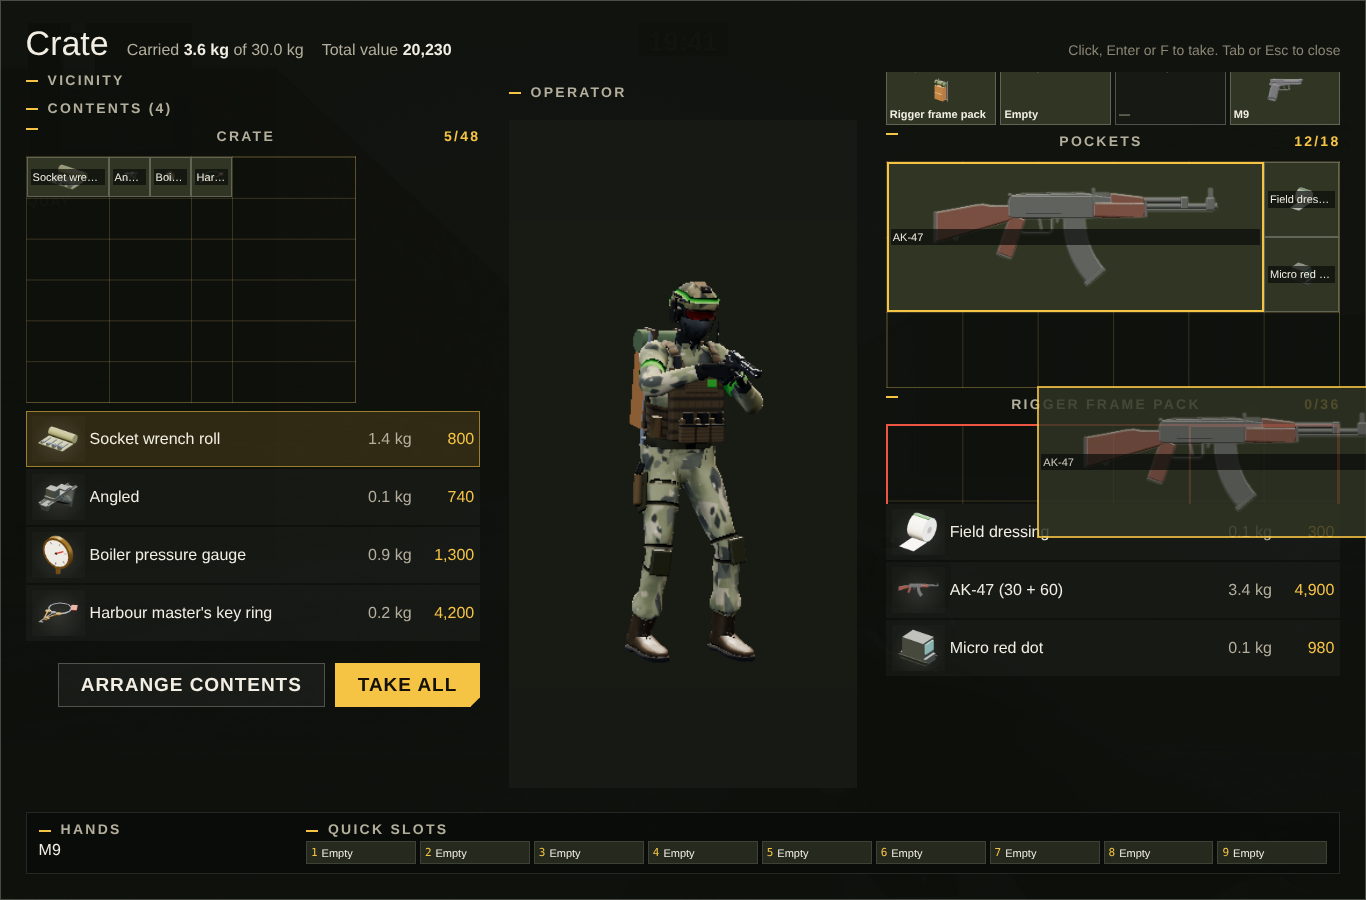
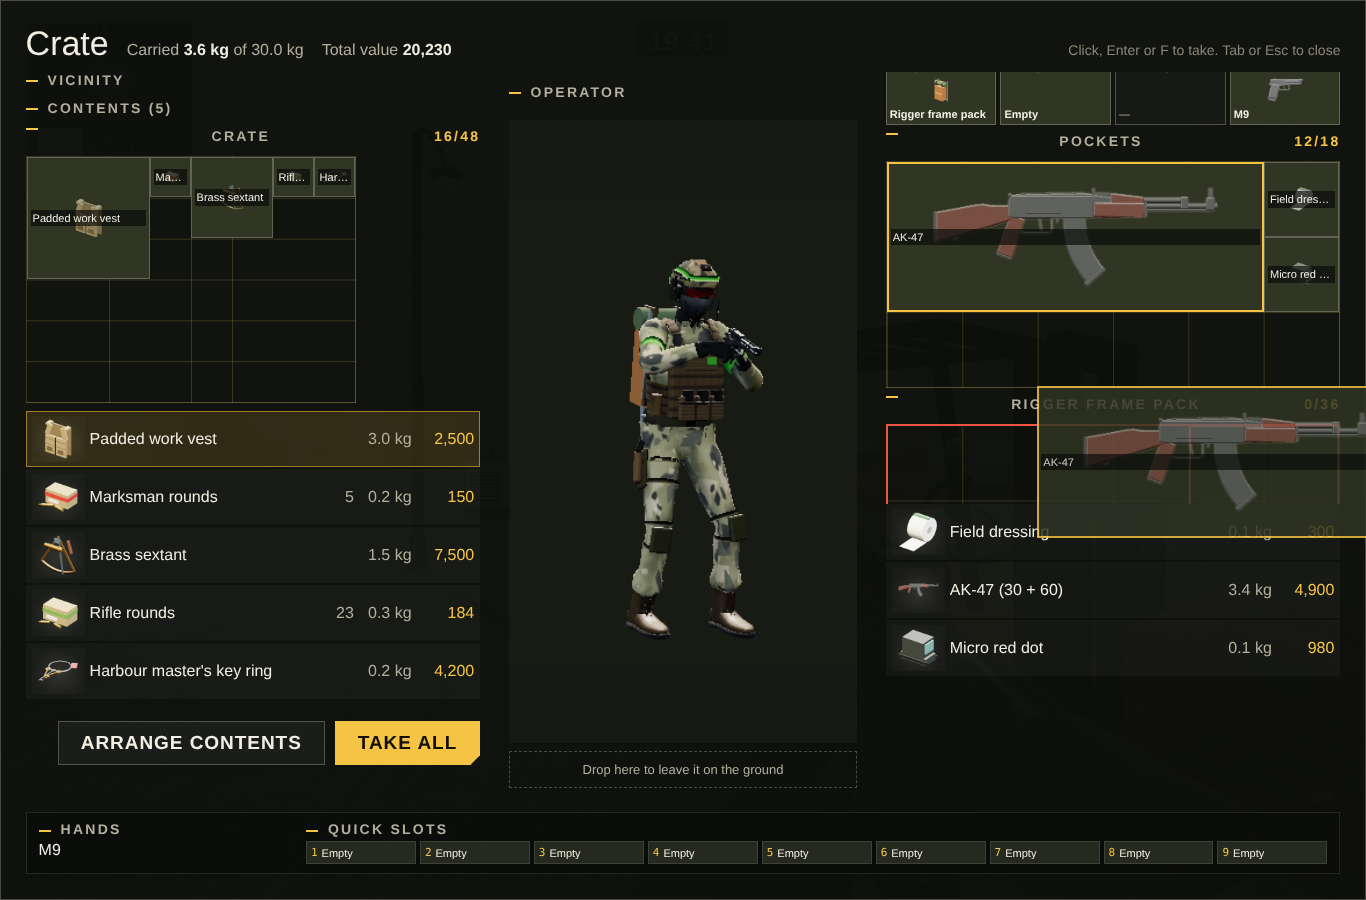
fix(K10): a "Drop here" zone in the raid panels; drag test passes all eight checks
The raid and loot panel box fills the screen, so releasing "outside every panel" could never
reach the ground. The operator column of both raid panels now ends in a dashed "Drop here to
leave it on the ground" zone (data-op-target="ground"): it lights green for bag and slot items
and sends the item to the host's world:put on release, as the outside drop did. The hideout is
unchanged. The owner was asked whether to keep this or use another drop area.

test-inventory-drag.mjs: check 8 releases over the zone. Also made the test deterministic: a
60 minute raid (it runs ~12 minutes of wall time), the player pinned and kept at full health in
the live game loop too, items picked from the carried grids only (the crate's random contents
can hold the same ids), stack units counted rather than entries.

Verified: test-inventory-drag prints eight ok lines on two runs in a row; test-inventory-layout,
test-ui and test-grid-placement pass; check_decl, check_i18n and smoke pass. Screenshots in
docs/inventory/raid-drag-*.png refreshed.

Claude-Session: https://claude.ai/code/session_01Tqor8tp8WfxLwsyXZZyNwL

diff --git a/src/efc/55-efc-operator.js b/src/efc/55-efc-operator.js
@@ -5,7 +5,8 @@ function efcOperatorPanel(id, weapon, inv) {
   let view = EFC_OPERATOR_VIEWS.get(id);
   if (!view) {
     const model = $(id), hideout = id === 'efcOpHideout', root = model.closest(hideout ? '#scr-hideout' : '.efc-ov');
-    model.innerHTML = '<p class="lbl">Operator</p><canvas width="300" height="400" tabindex="0" data-key="operator" aria-label="Rotate the operator with the arrow keys or by dragging"></canvas>';
+    model.innerHTML = '<p class="lbl">Operator</p><canvas width="300" height="400" tabindex="0" data-key="operator" aria-label="Rotate the operator with the arrow keys or by dragging"></canvas>'
+      + (hideout ? '' : '<div class="efc-op-ground" data-op-target="ground">Drop here to leave it on the ground</div>');
     const canvas = model.querySelector('canvas');
     view = { id, root, hideout, canvas, hands: root.querySelector('.efc-op-hands'), angle: 0.55, drag: null, frame: 0, drawn: '' };
     efcOperatorInteractions(view);
@@ -409,7 +410,7 @@ function efcOperatorDragMove(view, pick, x, y, grid = null) {
   const under = grid || document.elementFromPoint(x, y);
   const hit = under?.closest('[data-op-target]');
   const target = hit && view.root.contains(hit) ? hit : null;
-  pick.outside = !grid && !under?.closest('.efc-box');
+  pick.outside = !grid && (!under?.closest('.efc-box') || target?.dataset.opTarget === 'ground');
   const data = target?.dataset;
   let cell = null;
   let width = pick.rotated === pick.initialRotation ? pick.w : pick.h;
@@ -445,7 +446,8 @@ function efcOperatorDragMove(view, pick, x, y, grid = null) {
       return;
     }
   }
-  target.dataset.opDrop = efcOperatorCanMove(view, pick.source, target) ? 'valid' : 'invalid';
+  const ground = target.dataset.opTarget === 'ground' && ['bag', 'slot'].includes(pick.source.kind);
+  target.dataset.opDrop = ground || efcOperatorCanMove(view, pick.source, target) ? 'valid' : 'invalid';
 }
 
 function efcOperatorRotate(event, view) {
@@ -472,7 +474,7 @@ function efcOperatorDragEnd(view, commit) {
   if (commit && pick.button.isConnected) {
     const source = efcOperatorGetSource(view, pick.button);
     let placed = source && (efcOperatorExact(view, pick, false) ?? (!pick.count && efcOperatorMove(view, source, pick.target)));
-    if (!pick.target && pick.outside && !view.hideout && source && ['bag', 'slot'].includes(source.kind)) {
+    if ((!pick.target || pick.target.dataset.opTarget === 'ground') && pick.outside && !view.hideout && source && ['bag', 'slot'].includes(source.kind)) {
       const item = efcCall('inv:sendGridItem', EFC.inv, { kind: source.kind, key: source.key, id: source.item.id, count: pick.count });
       if (item) { efcCall('world:put', null, item); efcUirChanged(); placed = true; }
     }

diff --git a/shell.html b/shell.html
@@ -2646,6 +2646,7 @@ body.touch #perf { top: auto; right: auto; left: var(--sl); bottom: var(--sb); }
 .efc-op-item[aria-pressed="true"], .efc-op-slot[aria-pressed="true"] { outline: 2px solid var(--acc); outline-offset: -2px; }
 .efc-op-ghost { position: fixed; z-index: 9999; pointer-events: none; opacity: .84; }
 body:has(.efc-op-ghost) .efc-prev { visibility: hidden; }
+.efc-op-ground { flex: none; padding: 10px; border: 1px dashed var(--line-2); color: var(--dim); font-size: 13px; text-align: center; }
 [data-op-drop="valid"] { outline: 2px solid var(--ally); outline-offset: -2px; }
 [data-op-drop="invalid"] { outline: 2px solid var(--danger); outline-offset: -2px; }
 .efc-op-section { margin-top: 8px; }

diff --git a/docs/CODEX-SOL-TASKS.md b/docs/CODEX-SOL-TASKS.md
@@ -114,14 +114,14 @@ before starting).
 | K4 | Bring `test-thumbs.mjs` up to date with the grid inventory | S | K1 | done (5 of 6 checks; the sixth is a real bug, K8) |
 | K8 | Stash list names are 24 px wide at 1280 by 720 | S | K4 | blocked (owner: one line or two) |
 | K9 | `test-sks.mjs` "stepped TTK: the SKS is the longest" fails on some runs | S | K5 | open |
-| K10 | Raid panels cover the whole screen, so "drop outside the panel" never reaches the ground | S | C0-2 | blocked (owner: where the drop zone goes) |
+| K10 | Raid panels cover the whole screen, so "drop outside the panel" never reaches the ground | S | C0-2 | done (a "Drop here" zone under the operator; owner may still pick another option) |
 | K5 | Fix the weapon count in `test-sks.mjs` | XS | K1 | done |
 | K6 | Find why the online lean takes 0.33 s | S | K1 | open (passes in GitHub Actions on 25 November; fails only in the slower sandbox) |
 | K7 | Find why the bench route has 5 Wardens, not 7 | S | K1 | done (A3 Scavengers take 2 of the 7 hostile slots by design; test updated) |
 | C0-1 | Test: R does not reload while a raid panel is open | XS | K1 | done |
-| C0-2 | Test: drags between every raid panel pair | S | C0-1 | done (7 of 8 checks; the eighth is a real bug, K10) |
+| C0-2 | Test: drags between every raid panel pair | S | C0-1 | done (8 checks, after K10) |
 | C0-3 | Foley: unmount sound and one shared throttle | S | C0-2 | done |
-| C0-4 | Close C0 in the roadmap | XS | C0-3 | done (C0 closed except K10) |
+| C0-4 | Close C0 in the roadmap | XS | C0-3 | done |
 | C1-1 | Test: every gameplay input cancels the weapon check | S | K1 | done |
 | C1-2 | Contact sheets of the weapon check per family | S | C1-1 | open |
 | C10-1 | Self-hosted open-licence font files | S | K1 | open |

diff --git a/docs/ROADMAP.md b/docs/ROADMAP.md
@@ -21,7 +21,7 @@ mergeable branch.
 | --- | --- | --- | --- |
 | done | L0 | Art style lab: `#artlab` loads Claudov empty with live dials (retro/PS1 dither, lens, colour), presets, A/B split, copy and paste of settings (`docs/artlab/README.md`); done, merged into `beta` and live at `/beta/#artlab`; waiting for the owner's chosen settings | medium |
 | first | K1 to K7 | Make `beta` green: i18n line, stale thumbnail and SKS tests, online lean timing, bench route Warden count, HTTP in `run-all.sh`, CI on `beta` | small |
-| done | C0 | Finish the grid inventory: raid drag test (`test-inventory-drag.mjs`), R-key test (`test-inventory-keys.mjs`), unmount cue and one shared sound gap (cards C0-1 to C0-4, PR #15 on `beta`); one bug left, K10: dropping outside the raid panel cannot reach the ground | small |
+| done | C0 | Finish the grid inventory: raid drag test (`test-inventory-drag.mjs`), R-key test (`test-inventory-keys.mjs`), unmount cue and one shared sound gap (cards C0-1 to C0-4, PR #15 on `beta`); K10 added a "Drop here to leave it on the ground" zone under the operator, since the raid panel fills the screen | small |
 | 1 | C1 | Raid-start weapon check (P9), from the T7 proposal | medium |
 | 2 | C9 | Omnimovement: dives, slides, prone in every direction, weapon canting with the body | very large, two parts |
 | 3 | C2 | Partisan modern weapons, batch 1: AK-15K, AK-74M Zenitco, RPK, M16, G3. Integrate Partisan’s modding system and assets with Riposte’s base weapons in the same workbench. Use the StG 44 bench only for lighting, background, floor and canted weapon view. | large |

diff --git a/docs/HANDOFF-CODEX.md b/docs/HANDOFF-CODEX.md
@@ -54,7 +54,7 @@ found `beta` not green (six failing checks, cards K1 to K7) and fixed X1 and X2 
 
 ## C0. Finish the grid inventory (medium; first, before C1)
 
-Done on `beta` (cards C0-1 to C0-3 in `CODEX-SOL-TASKS.md`), except card K10: the raid panel box fills the screen, so a drop outside it never reaches the ground.
+Done on `beta` (cards C0-1 to C0-3 in `CODEX-SOL-TASKS.md`), plus card K10: the raid panel box fills the screen, so the ground drop is a "Drop here" zone under the operator figure.
 
 The owner played the grid inventory (A6 to A8) and wants it finished before anything else. Three things:
 
